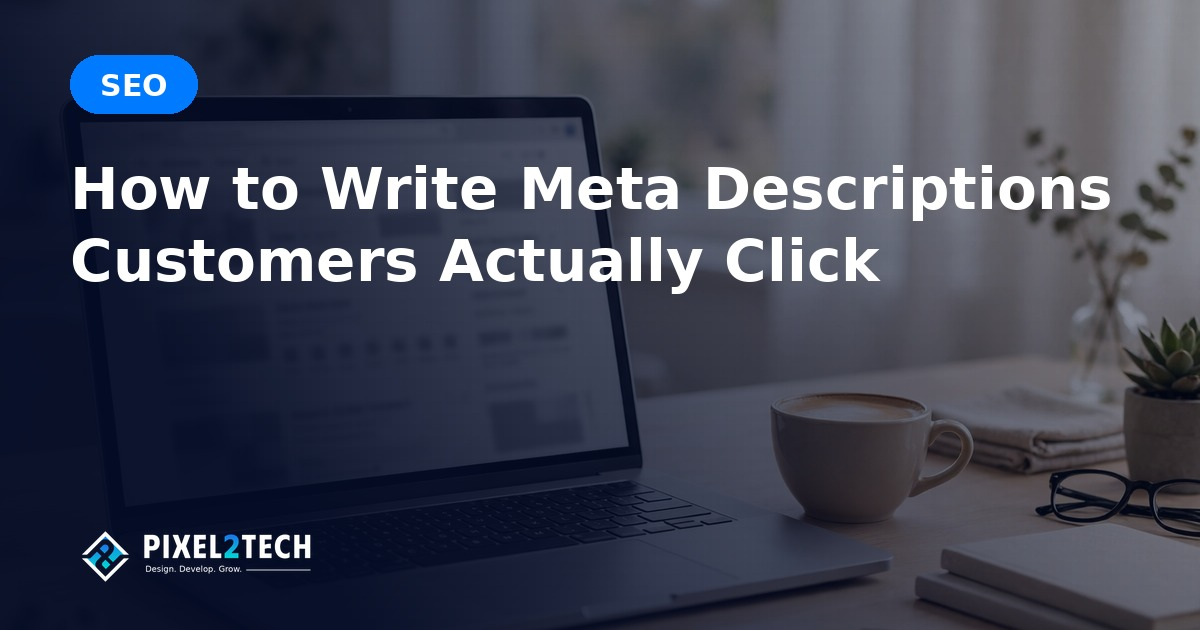
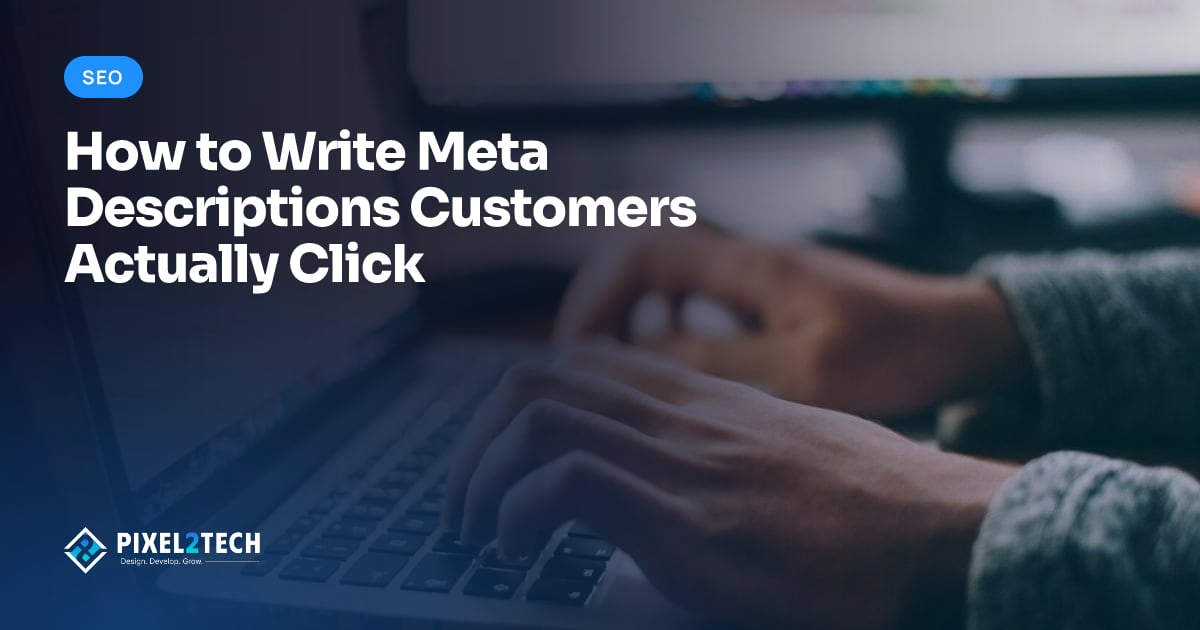
Align agency pages for US and UK search intent and finish blog covers

diff --git a/src/lib/service-pages.ts b/src/lib/service-pages.ts
@@ -108,14 +108,14 @@ export const PRICING_POINTS: { title: string; desc: string }[] = [
 
 const COPY: Record<ServiceTitle, ServicePageCopy> = {
   "Branding & Design": {
-    metaTitle: "Brand identity design services and logo design | Pixel2Tech",
+    metaTitle: "Branding & Design Agency for US & UK Brands | Pixel2Tech",
     metaDescription:
-      "A branding agency for small business. Brand identity design, logo design and graphic design services, with brand guidelines. Fixed quote after a free call.",
+      "Branding and design agency for US and UK businesses. Logo design, brand identity and guidelines from one in-house team. Get a fixed written quote.",
     serviceType: "Brand identity design",
-    h1: "Branding agency and brand identity design",
-    h1Highlight: "for US startups and small businesses",
+    h1: "Branding and design agency",
+    h1Highlight: "for US and UK startups and small businesses",
     answer:
-      "Pixel2Tech is a branding agency in Lahore, Pakistan working with businesses in the US, UK, Canada and the EU. Its brand identity design services cover logos, color palettes, typography and brand guidelines, plus the templates that apply them, so a company's website, social posts, ads and packaging all look like one brand.",
+      "Pixel2Tech is a branding and design agency in Lahore, Pakistan working with businesses in the US, UK, Canada and the EU. Its brand identity design services cover logos, color palettes, typography and brand guidelines, plus the templates that apply them, so a company's website, social posts, ads and packaging all look like one brand.",
     tags: ["Logo", "Brand guide", "UI/UX"],
     deliverables: [
       {
@@ -215,14 +215,14 @@ const COPY: Record<ServiceTitle, ServicePageCopy> = {
   },
 
   "Website Development": {
-    metaTitle: "Web Design Agency for US Small Businesses | Pixel2Tech",
+    metaTitle: "Website Design Agency for US & UK Businesses | Pixel2Tech",
     metaDescription:
-      "A web design agency for US small businesses and startups: mobile-ready sites in React, Next.js or custom code, built in-house. Fixed quote after a free call.",
+      "Website design agency for US and UK businesses. Responsive websites built in-house, from planning and design to development. Get a fixed written quote.",
     serviceType: "Website development",
-    h1: "Web design agency",
-    h1Highlight: "for US small businesses and startups",
+    h1: "Website design agency",
+    h1Highlight: "for US and UK small businesses and startups",
     answer:
-      "Pixel2Tech is a web design and development studio in Lahore, Pakistan that builds fast, mobile-ready websites in React, Next.js or custom code for businesses worldwide, from the US and UK to Canada and the EU, from a single landing page to a full business site, set up so visitors understand the offer and get in touch.",
+      "Pixel2Tech is a website design agency and development studio in Lahore, Pakistan that builds fast, mobile-ready websites in React, Next.js or custom code for businesses worldwide, from the US and UK to Canada and the EU, from a single landing page to a full business site, set up so visitors understand the offer and get in touch.",
     tags: ["React", "Next.js", "Custom code"],
     deliverables: [
       {
@@ -726,12 +726,12 @@ const COPY: Record<ServiceTitle, ServicePageCopy> = {
   },
 
   "SEO & Search Growth": {
-    metaTitle: "SEO agency and on-page SEO services | Pixel2Tech",
+    metaTitle: "SEO Agency for US & UK Small Businesses | Pixel2Tech",
     metaDescription:
-      "An SEO agency for US small businesses. On-page SEO services, technical SEO audits, keyword strategy, Shopify SEO and local SEO. Fixed quote after a call.",
+      "SEO agency for US and UK businesses. Technical audits, on-page SEO, keyword strategy and internal linking, with priorities and scope agreed in writing.",
     serviceType: "Search engine optimization",
     h1: "SEO agency",
-    h1Highlight: "for US small businesses and online stores",
+    h1Highlight: "for US and UK businesses and online stores",
     answer:
       "Pixel2Tech is an SEO agency in Lahore, Pakistan working with businesses in the US, UK, Canada and the EU. It audits sites for technical problems, provides on-page SEO services, plans keywords around what customers search for and sets up local SEO, so the right people find the business on Google.",
     tags: ["On-page SEO", "Technical SEO", "Local SEO"],
@@ -925,14 +925,14 @@ const COPY: Record<ServiceTitle, ServicePageCopy> = {
   },
 
   "Video Editing & Ads": {
-    metaTitle: "Video Editing Services for US Brands & Agencies | Pixel2Tech",
+    metaTitle: "Video Editing Agency for US & UK Brands | Pixel2Tech",
     metaDescription:
-      "Video editing services for US brands and agencies: reels, YouTube videos, brand videos and ad creative, edited in-house. Fixed quote after a free call.",
+      "Video editing agency for US and UK brands and agencies. Reels, YouTube videos and ad creative, edited in-house with an agreed scope and written quote.",
     serviceType: "Video editing and video ad production",
-    h1: "Video editing services",
-    h1Highlight: "for US brands and agencies",
+    h1: "Video editing agency",
+    h1Highlight: "for US and UK brands and agencies",
     answer:
-      "Pixel2Tech, a Lahore-based video editing studio working with clients worldwide, from the US and UK to Canada and the EU, edits reels, brand videos, YouTube content and paid ad creative from the client's footage, cut for the platform each one will run on, with captions, motion graphics and versions to test.",
+      "Pixel2Tech, a Lahore-based video editing agency working with clients worldwide, from the US and UK to Canada and the EU, edits reels, brand videos, YouTube content and paid ad creative from the client's footage, cut for the platform each one will run on, with captions, motion graphics and versions to test.",
     tags: ["Reels", "YouTube", "Paid ads"],
     deliverables: [
       {

diff --git a/src/lib/blog-index.ts b/src/lib/blog-index.ts
@@ -41,8 +41,8 @@ const POSTS = [
     date: "November 13, 2026",
     time: "2:53 pm",
     author: "Asad Farooq",
-    img: "/blog/covers/write-meta-descriptions-customers-click.jpg",
-    imgAlt: "A laptop showing Google search results with a meta description",
+    img: "/blog/covers/write-meta-descriptions-customers-click.jpg?v=20261113-reference",
+    imgAlt: "Branded cover with hands typing on a laptop",
   },
   {
     slug: "ai-image-tools-service-business-marketing",
@@ -53,8 +53,8 @@ const POSTS = [
     date: "November 13, 2026",
     time: "12:47 pm",
     author: "Asad Farooq",
-    img: "/blog/covers/ai-image-tools-service-business-marketing.jpg",
-    imgAlt: "A designer reviewing AI generated images on a computer screen",
+    img: "/blog/covers/ai-image-tools-service-business-marketing.jpg?v=20261113-reference",
+    imgAlt: "Branded cover with a person using a laptop touchpad",
   },
   {
     slug: "shared-inbox-routine-customer-messages",
